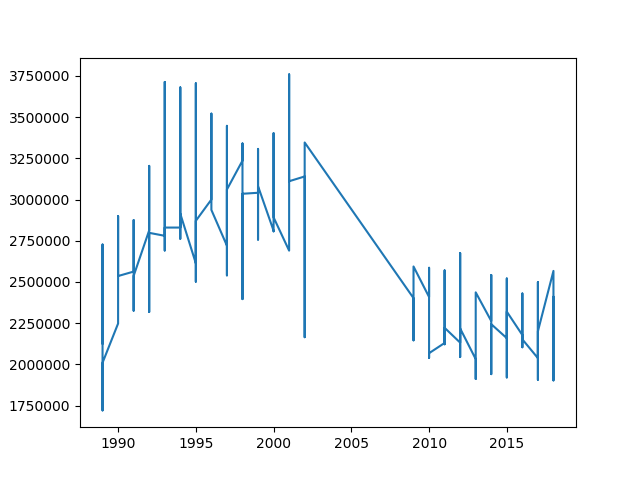
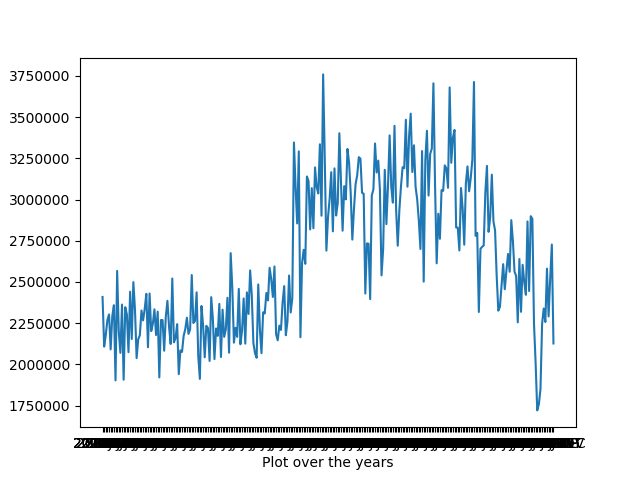
part 2 done

Changed region(s): [[0.1562, 0.1562, 0.875, 0.8438], [0.0938, 0.875, 0.9375, 0.9688]]

diff --git a/main.py b/main.py
@@ -7,12 +7,12 @@ import numpy as np
 from sklearn.linear_model import LinearRegression
 from sklearn.metrics import r2_score
 
-## Global data that we might need later. Will change this whole thing into a class later, this is to receive the results quickly at first
 YEARS = []
 VALUES = []
 YEARS_MONTH = []
+meanDict = {}
 
-## This function basically makes the api call, gets the data in JSON format, parses it to csv and stores it in a csv file. There is a loop that you can see which calls the api multiple times with different years
+## Part 1. Getting the data and storing it in a csv file
 def getData():
 	with requests.Session() as s:
 		dataFile = open('data.csv', 'w')
@@ -30,8 +30,9 @@ def getData():
 			writer.writerow(vals.values())
 		dataFile.close()
 
+
 ## Part 2
-def readCSVandPlotLineGraph():
+def readCSVandStore():
 	df = pandas.read_csv('data.csv')
 	for year in df['year']:
 		YEARS.append(year)
@@ -42,19 +43,42 @@ def readCSVandPlotLineGraph():
 		i += 1
 	for value in df['Value']:
 		VALUES.append(int(value.replace(',',''))) #this will give value in thousands, we can just put that as a label
-	plt.plot(YEARS, VALUES)
-	plt.savefig('plot.png')
 
-def mean():
-	meanDict = {}
 	for i in range(len(VALUES)):
 		if YEARS[i] in meanDict:
 			meanDict[YEARS[i]].append(VALUES[i])
 		else:
 			meanDict[YEARS[i]] = [VALUES[i]]
-	
+
+def plotChart():
+	for year in meanDict:
+		plt.plot(meanDict[year])
+		plt.xlabel("--------- " + str(year) + " --------->")
+		plt.ylabel("--------- VALUE -------->")
+		plt.savefig(str(year) + '.png')
+		plt.close()
+
+	plt.plot(YEARS_MONTH, VALUES)
+	plt.xlabel('Plot over the years')
+	plt.savefig('plot.png')
+	plt.close()
+
+def mean():
+	print "\n*************************"
+	print "\tMean\n*************************"
+	print "Year\t |\tMean Value"
+	print "--------------------------"
 	for item in meanDict:
-		print(item, sum(meanDict[item]) / len(meanDict[item]))
+		print str(item) + "\t | \t" + str(sum(meanDict[item]) / len(meanDict[item]))
+
+def median():
+	print "\n*************************"
+	print "\tMedian\n*************************"
+	print "Year\t |\tMedian Value"
+	print "--------------------------"
+	for years in meanDict:
+		meanDict[years].sort()
+		print str(years) + "\t | \t" +  str(meanDict[years][len(meanDict[years])//2])
 
 
 # Part 3
@@ -98,6 +122,9 @@ def linear_reg():
 	plt.plot(STRING_MONTHS, SELECTED_DATA, 'yo', STRING_MONTHS, fit_function(NUM_MONTHS), '--k')
 	plt.show()
 
-getData()
-readCSVandPlotLineGraph()
-linear_reg()
+# getData()
+readCSVandStore()
+plotChart()
+mean()
+median()
+# linear_reg()
